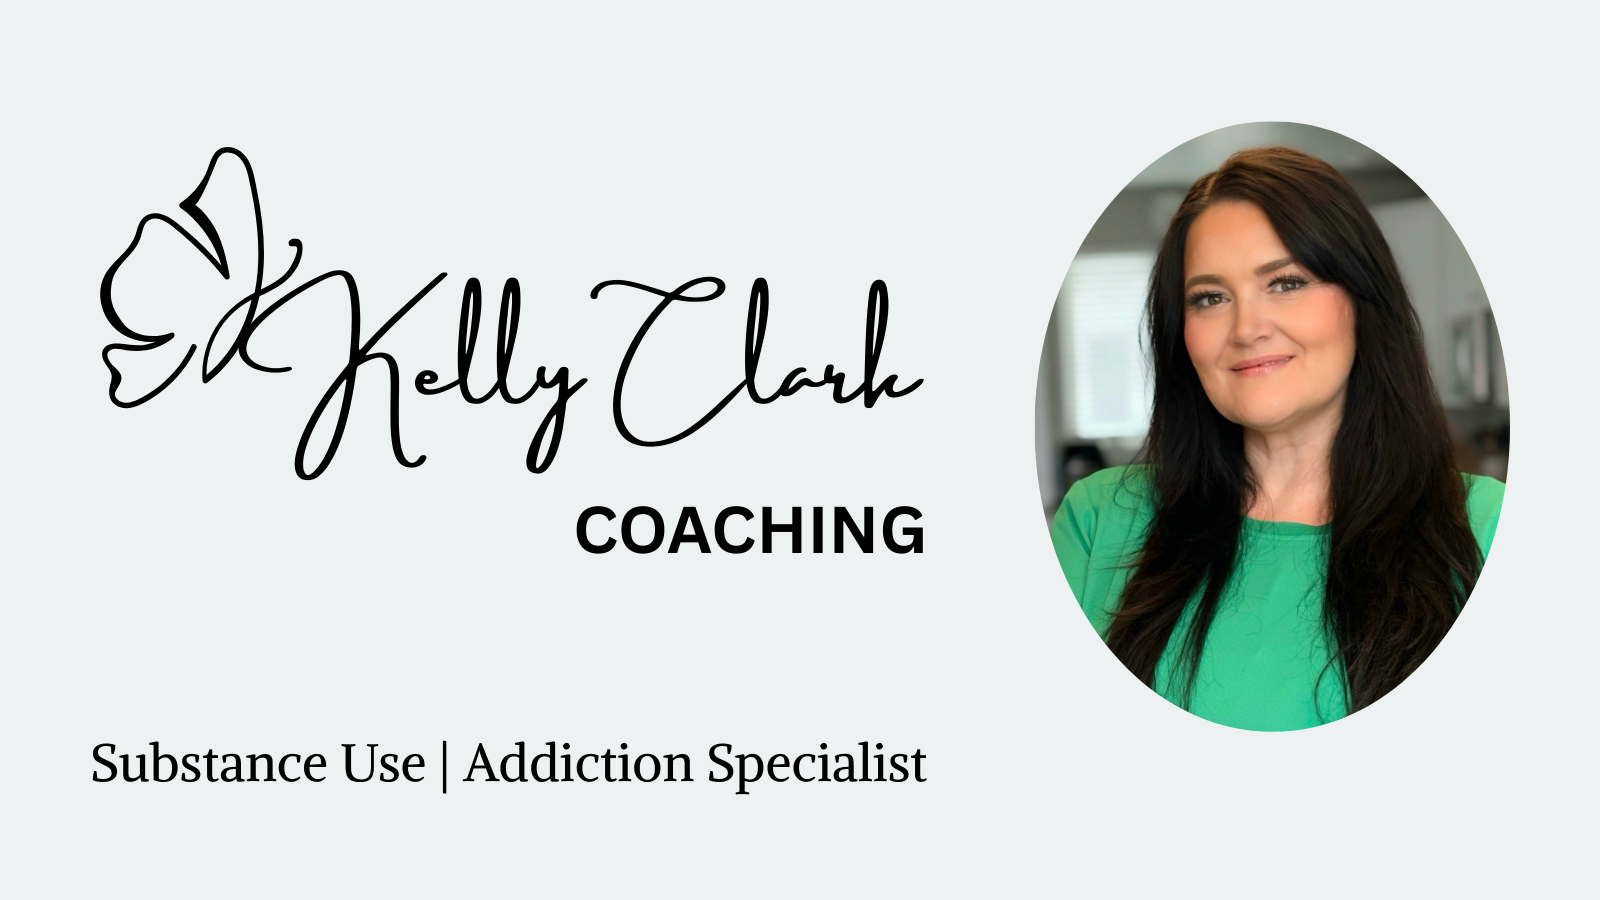
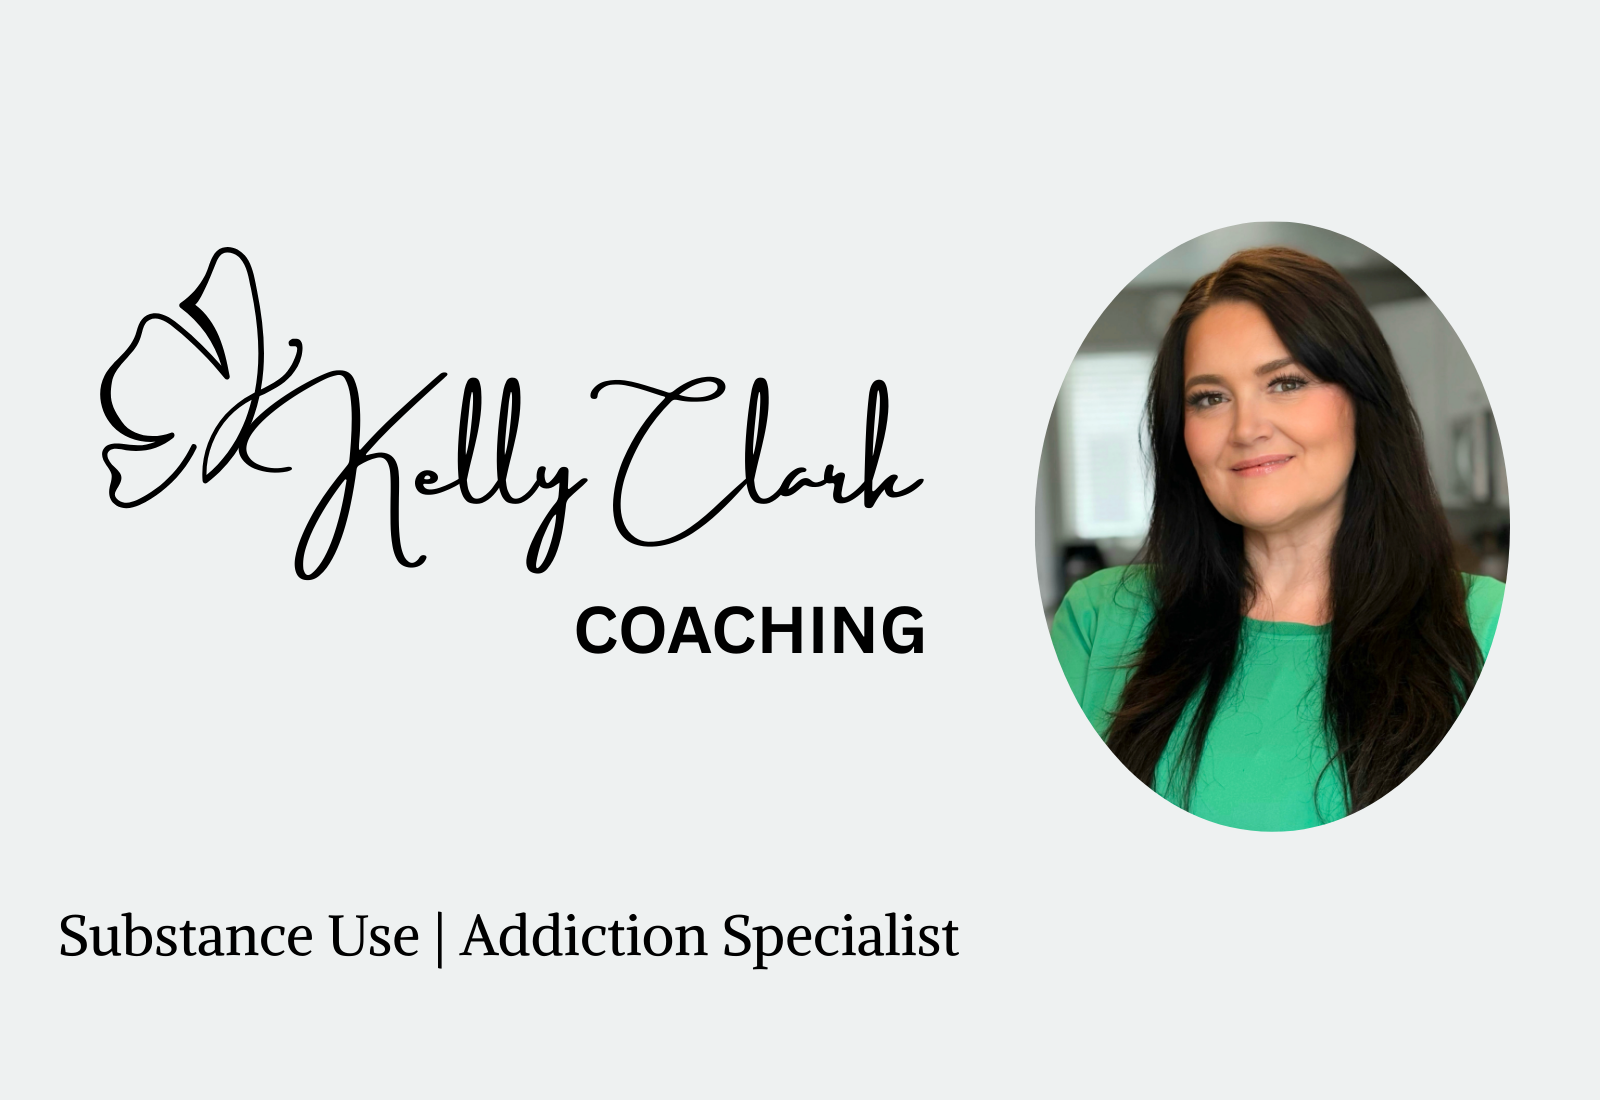
added background

diff --git a/src/app/page.tsx b/src/app/page.tsx
@@ -23,7 +23,7 @@ export default function Home() {
         </section>
 
         {/* Top Image – full width within a max container */}
-        <div className="w-full px-4 mt-2 sm:mt-3 md:mt-6 flex justify-center mb-10">
+        <div className="w-full px-4 mt-2 sm:mt-3 md:mt-6 flex justify-center mb-5">
           <div className="w-full max-w-[600px]">
             <Image
               src="/message1.png"
@@ -35,36 +35,44 @@ export default function Home() {
           </div>
         </div>
 
-        {/* Kelly's Story Section */}
-        <div className="relative w-full py-6">
-          <div className="relative z-10">
-            <div className="w-full px-4 mt-3 flex justify-center">
-              <Image
-                src="/header1.png"
-                alt="Header below message"
-                width={250}
-                height={200}
-                className="w-auto h-auto"
-              />
-            </div>
+        {/* Kelly's Story Section with Background */}
+<div className="w-full bg-[#EEF1F1] py-10">
+  <div className="relative w-full">
+    <div className="relative z-10">
 
-            <div className="mt-1">
-              <KellysStory />
-            </div>
-
-            <div className="w-full px-4 mt-4 flex justify-center">
-              <div className="w-full max-w-[600px]">
-                <Image
-                  src="/message2.png"
-                  alt="Second message below hero"
-                  width={900}
-                  height={400}
-                  className="w-full h-auto"
-                />
-              </div>
-            </div>
-          </div>
+      <div className="mt-1">
+        {/* Top Header Image */}
+        <div className="w-full px-4 mt-1 flex justify-center">
+          <Image
+            src="/header1.png"
+            alt="Header below message"
+            width={200}
+            height={150}
+            className="w-auto h-auto"
+          />
         </div>
+
+        {/* Kelly's Story */}
+        <KellysStory />
+      </div>
+
+      {/* Bottom Message Image */}
+      <div className="w-full px-4 mt-4 flex justify-center">
+        <div className="w-full max-w-[600px]">
+          <Image
+            src="/message2.png"
+            alt="Second message below hero"
+            width={900}
+            height={400}
+            className="w-full h-auto"
+          />
+        </div>
+      </div>
+
+    </div>
+  </div>
+</div>
+
 
         {/* Coaching Section */}
         <div className="w-full py-6">
@@ -72,8 +80,8 @@ export default function Home() {
             <Image
               src="/header2.png"
               alt="Header below Kelly's Story"
-              width={250}
-              height={200}
+              width={200}
+              height={150}
               className="w-auto h-auto"
             />
           </div>
@@ -103,8 +111,8 @@ export default function Home() {
               <Image
                 src="/header3.png"
                 alt="Header below Recovery Coaching"
-                width={250}
-                height={200}
+                width={200}
+                height={150}
                 className="w-auto h-auto"
               />
             </div>
@@ -121,8 +129,8 @@ export default function Home() {
             <Image
               src="/header4.png"
               alt="Header below Recovery Coaching"
-              width={250}
-              height={200}
+              width={200}
+              height={150}
               className="w-auto h-auto"
             />
           </div>

diff --git a/src/components/Intro.tsx b/src/components/Intro.tsx
@@ -3,9 +3,10 @@ import React from "react";
 export default function Intro() {
   return (
     <section className="relative z-10 w-full px-4 sm:px-8 py-10 max-w-4xl mx-auto text-sm sm:text-base leading-relaxed text-gray-800 dark:text-gray-200">
-      <h3 className="text-2xl sm:text-3xl font-semibold mb-6" style={{ fontFamily: "'Alike', serif" }}>
-        You’re Not Alone—And You Don’t Have to Stay Stuck
-      </h3>
+    <h3 className="text-2xl sm:text-3xl mb-6" style={{ fontFamily: "'Alike', serif" }}>
+      You’re Not Alone—And You Don’t Have to Stay Stuck
+    </h3>
+
 
       <p>
         Perhaps you’ve found yourself drinking, eating, using substances, or engaging in damaging behaviors more frequently than you ever intended. Maybe the impact is subtle—your routines feel off, your relationships strained, or your peace disturbed. Or maybe it’s more severe, and life as you know it feels like it’s slipping out of control.
